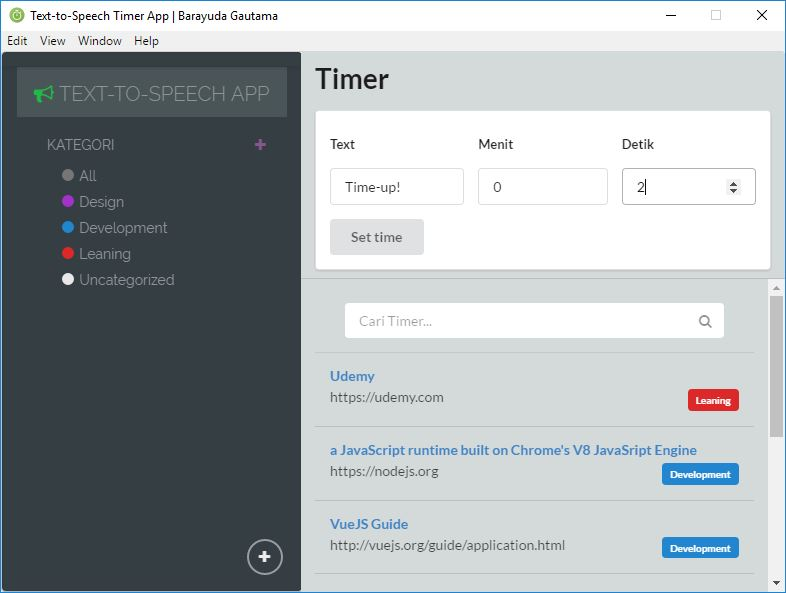
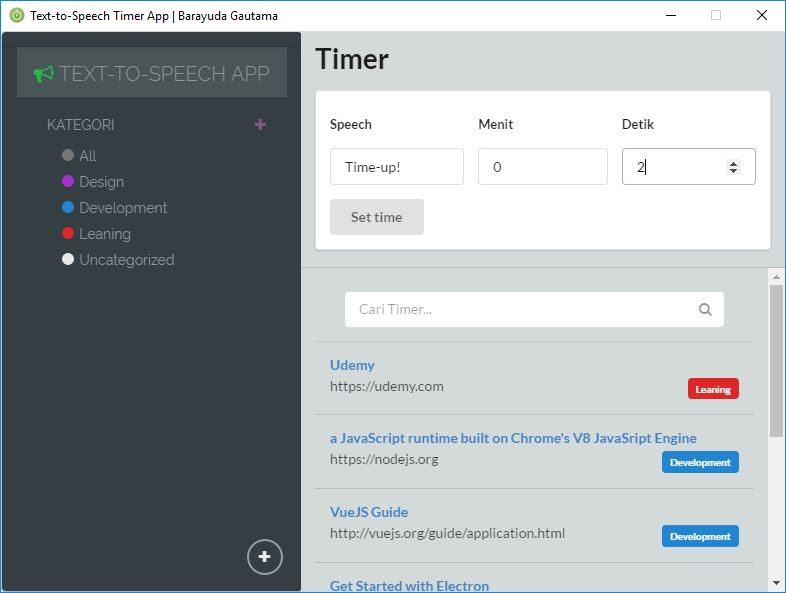
Edit text & Update screenshot preview

diff --git a/app/components/TimerSetup.vue b/app/components/TimerSetup.vue
@@ -3,7 +3,7 @@
     <div class="ui tiny form segment">
       <div class="two fields">
         <div class="field">
-          <label>Text</label>
+          <label>Speech</label>
           <input type="text" v-model="custom_artyom" name="custom_artyom" id="custom_artyom">
         </div>
         <div class="field">

diff --git a/main.js b/main.js
@@ -13,7 +13,7 @@ function createWindow () {
     resizable: false,
     icon: __dirname + '/build/icon.ico'
   });
-  // mainWindow.setMenu(null);
+  mainWindow.setMenu(null);
   mainWindow.loadURL('file://' + __dirname + '/index.html');
 
   mainWindow.on('closed', function() {
